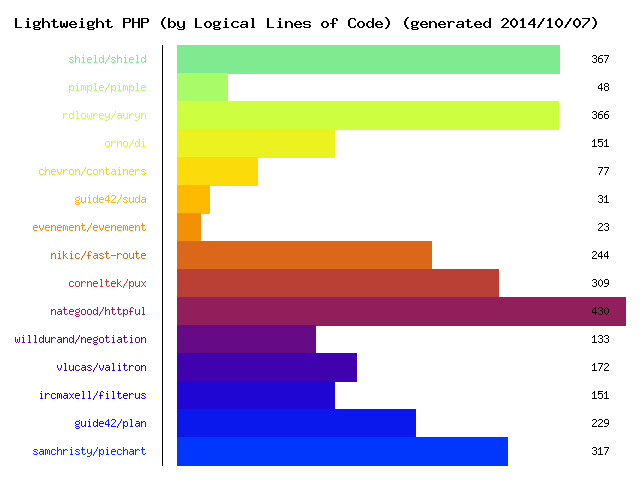
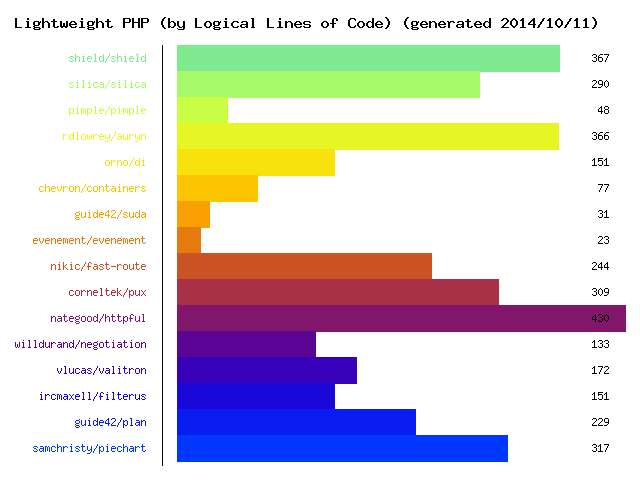
Add Silica

diff --git a/README.md b/README.md
@@ -17,6 +17,7 @@ List of lightweight PHP libraries.
 ## Frameworks
 
 * [Shield](https://github.com/enygma/shieldframework) - A security minded microframework
+* [Silica](https://github.com/changloong/Silica) - Micro framework inspired by Silex
 
 ## Dependency Injection
 
